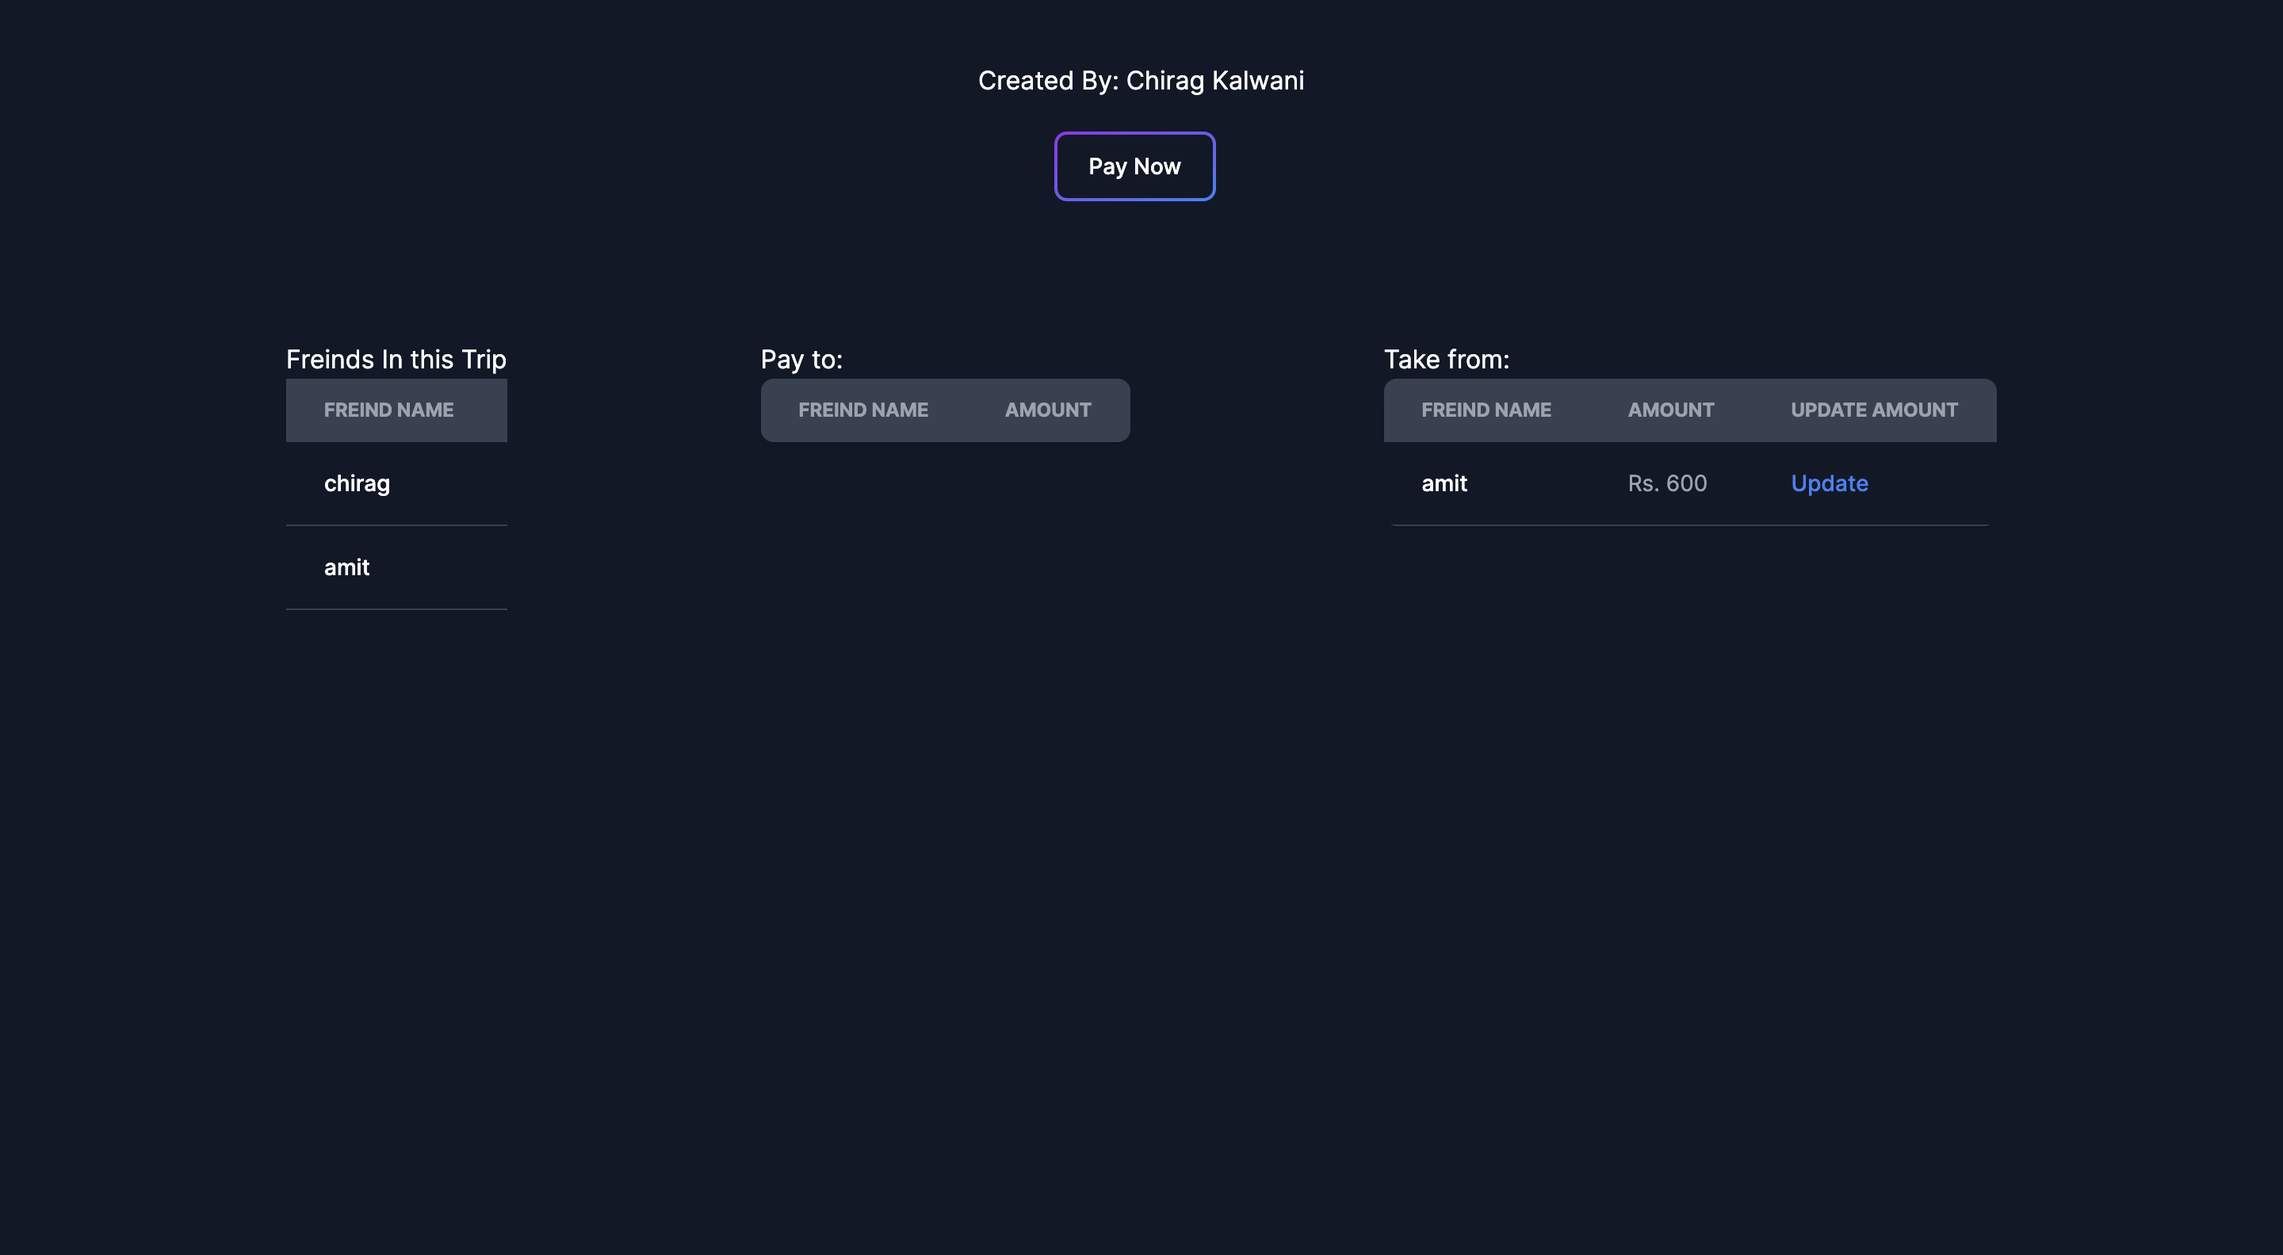
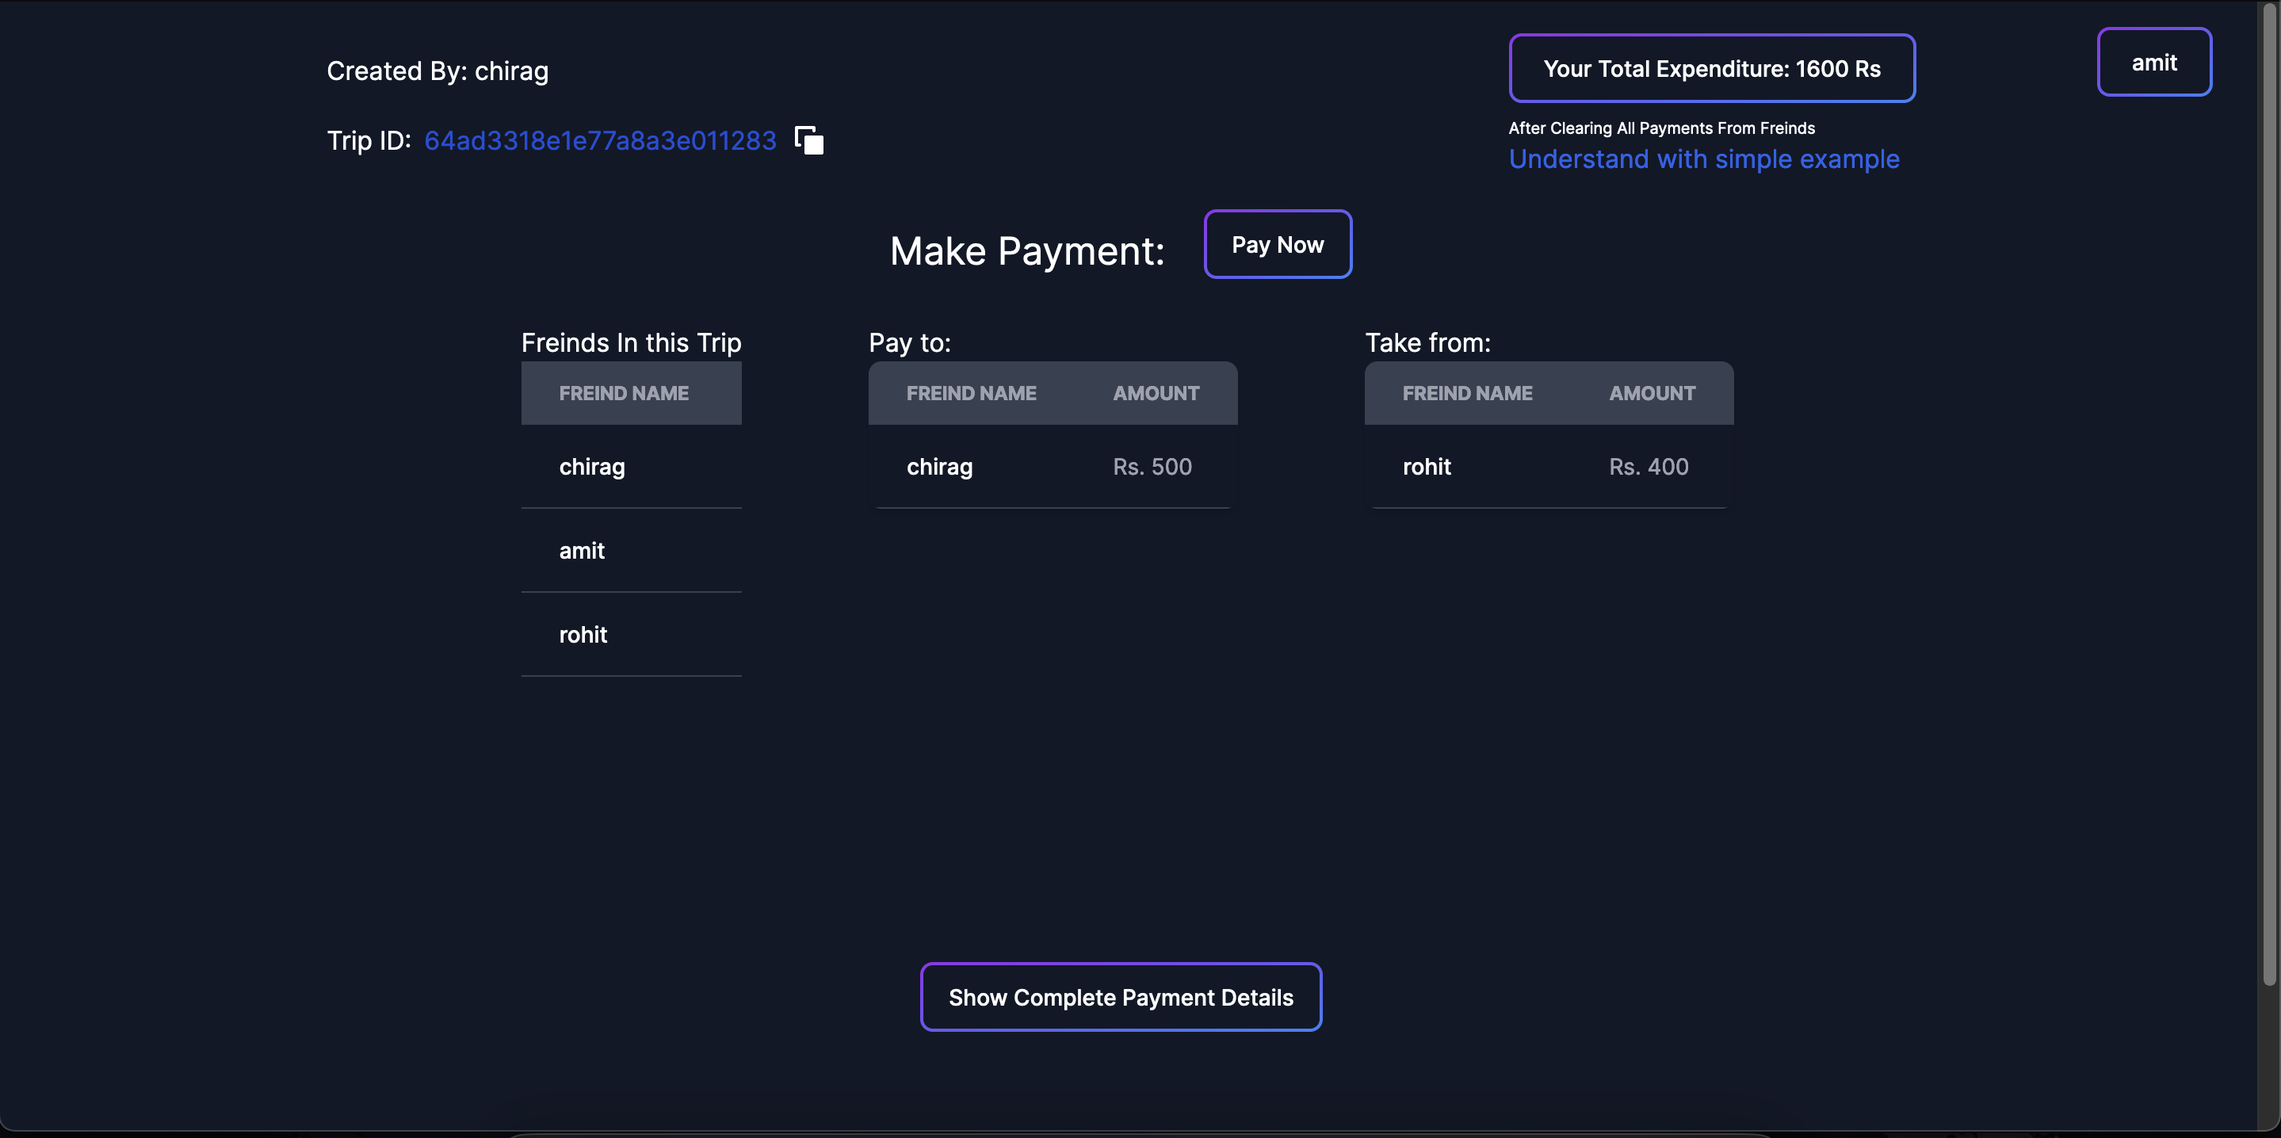
Date filter added

diff --git a/src/app/my_trip/[id]/page.tsx b/src/app/my_trip/[id]/page.tsx
@@ -7,6 +7,8 @@ import PayTo from "@/components/Trip/PayTo";
 import TakeFrom from "@/components/Trip/TakeFrom";
 import Helper from "@/components/Modals/Helper";
 import Link from "next/link";
+import {Tooltip} from "react-tooltip";
+import Spinner from "@/components/Spinners/Spinner";
 
 function MyTrip({params}: any) {
     // States parameters
@@ -24,11 +26,13 @@ function MyTrip({params}: any) {
     const [takeFrom, setTakeFrom] = useState<any[]>([]);
     // Get Current user expenditures
     const [currentUserExpenditures, setCurrentUserExpenditures] = useState<number>(0);
+    const [userName, setUserName] = useState("");
     // isLoading is the state which is used to show the spinner when data is being fetched
     const [userLoading, setUserLoading] = useState<boolean>(false);
     const [tableLoading, setTableLoading] = useState<boolean>(false);
     // loading current page from Pay modal
     const [load, setLoad] = useState(false);
+    const [changeCopy, setChangeCopy] = useState(false);
     // tripId is the id of the trip which user have clicked
     const tripId = params.id;
     // getPayTo is the function which is used to get all the users to whom user have to pay and from whom user have to take
@@ -41,7 +45,7 @@ function MyTrip({params}: any) {
             let res = await axios.post('/api/trip/paymentDetails', {tripId});
             // currUserId = res.data.userId,
             const pd = res.data.data, currUserName = res.data.userName;
-            localStorage.setItem("data", JSON.stringify(pd));
+            setUserName(currUserName);
             let arr2: any = {};
             for (let user of userDetails) {
                 arr2[user.userName] = {};
@@ -102,11 +106,62 @@ function MyTrip({params}: any) {
         getUsers().then();
     }, [load])
 
+
+    async function handlCopy() {
+        setChangeCopy(true);
+        try {
+            await navigator.clipboard.write([
+                new ClipboardItem({
+                    "text/plain": new Blob([tripId], {type: "text/plain"}),
+                }),
+            ]);
+            await setTimeout(() => {
+                setChangeCopy(false);
+            }, 500);
+        } catch (error) {
+            console.error("Failed to copy text to clipboard:", error);
+        }
+    }
+
     return (
         <div className="flex flex-col items-center justify-around">
+            <Link href="/"
+                  className="absolute top-2 right-5 inline-flex items-center justify-center mt-2 p-0.5 mb-2 mr-2 overflow-hidden text-sm font-medium text-gray-900 rounded-lg group bg-gradient-to-br from-purple-600 to-blue-500   dark:text-white">
+                {
+                    userName === "" ?
+                        <span
+                            className="relative px-5 py-2.5 transition-all ease-in duration-75 bg-white dark:bg-gray-900 rounded-md">
+                        <Spinner/>
+                        </span>
+                        :
+                        <span
+                            className="relative px-5 py-2.5 transition-all ease-in duration-75 bg-white dark:bg-gray-900 rounded-md">
+                              {userName}
+                          </span>
+                }
+            </Link>
             {/*Headings*/}
             <div className="flex w-[100vw] flex-wrap items-center justify-around">
-                <h3 className="mt-5">Created By: {owner.userName} </h3>
+                <div>
+                    <h3 className="mt-5">Created By: <span> {owner.userName} </span></h3>
+                    <div className="flex gap-2 flex-wrap justify-around mt-5">
+                        <span className=""> Trip ID: </span>
+                        <span className="text-blue-700"> {tripId} </span>
+                        <div data-tooltip-id="copy" data-tooltip-content={"Copy"}>
+                            {
+                                !changeCopy ?
+                                    <svg onClick={() => handlCopy()} className="w-6 invert cursor-pointer"
+                                         xmlns="http://www.w3.org/2000/svg" viewBox="0 0 24 24">
+                                        <path
+                                            d="M21 10v10a1 1 0 0 1-1 1H10a1 1 0 0 1-1-1V10a1 1 0 0 1 1-1h10a1 1 0 0 1 1 1zM6 14H5V5h9v1a1 1 0 0 0 2 0V4a1 1 0 0 0-1-1H4a1 1 0 0 0-1 1v11a1 1 0 0 0 1 1h2a1 1 0 0 0 0-2z"/>
+                                    </svg> :
+                                    <Spinner/>
+                            }
+                        </div>
+                        <Tooltip clickable place={"right"} style={{cursor: "pointer"}}
+                                 id="copy"/>
+                    </div>
+                </div>
                 <div className="flex flex-col">
                     <button disabled
                             className="relative inline-flex items-center justify-center mt-5 p-0.5 mb-2 mr-2 overflow-hidden text-sm font-medium text-gray-900 rounded-lg group bg-gradient-to-br from-purple-600 to-blue-500   dark:text-white">
@@ -121,7 +176,8 @@ function MyTrip({params}: any) {
                 </div>
             </div>
             {/* The Button Clicked open the pay modal */}
-            {!helper &&
+            {
+                !helper &&
                 <div className="flex items-center gap-6">
                     <h1 className="mt-5 text-2xl">Make Payment: </h1>
                     <button onClick={() => setPay(prev => !prev)}
@@ -136,12 +192,12 @@ function MyTrip({params}: any) {
             {/*Either pay modal remains open or dahboard */}
             {
                 helper ? <Helper closeFunction={setHelper} msg={"totalExpenditureFeature"}/> :
-                    <>
+                    <div className="mt-5">
                         {pay ?
                             <div><Pay loadUpperPage={setLoad} tripId={tripId} members={members}
                                       handleClose={setPay}/>
                             </div> :
-                            <div className="flex flex-row flex-wrap">
+                            <div className="flex flex-row gap-20 justify-center flex-wrap">
                                 {/*/!*Members in The trip shown in by the following component*!/*/}
                                 <FreindsList loading={userLoading} members={members}/>
                                 {/*/!* Current user pending payments *!/*/}
@@ -149,15 +205,15 @@ function MyTrip({params}: any) {
                                 <TakeFrom loading={tableLoading} takeFrom={takeFrom}/>
                             </div>
                         }
-                    </>
+                    </div>
             }
-
+            {/*Redirect to complete Information about payments*/}
             {
                 !helper && !pay &&
-                <div className="flex items-center gap-6">
+                <div className="flex items-center gap-6 h-96">
                     <Link href={`/table/${tripId}`} target="_blank"
                           passHref
-                          className="relative inline-flex items-center justify-center mt-5 p-0.5 mb-2 mr-2 overflow-hidden text-sm font-medium text-gray-900 rounded-lg group bg-gradient-to-br from-purple-600 to-blue-500 group-hover:from-purple-600 group-hover:to-blue-500 hover:text-white dark:text-white focus:ring-4 focus:outline-none focus:ring-blue-300 dark:focus:ring-blue-800">
+                          className="relative inline-flex justify-center mt-5 p-0.5 mr-2 overflow-hidden text-sm font-medium text-gray-900 rounded-lg group bg-gradient-to-br from-purple-600 to-blue-500 group-hover:from-purple-600 group-hover:to-blue-500 hover:text-white dark:text-white focus:ring-4 focus:outline-none focus:ring-blue-300 dark:focus:ring-blue-800">
                         <span
                             className="relative px-4 py-2.5 transition-all ease-in duration-75 bg-white dark:bg-gray-900 rounded-md group-hover:bg-opacity-0">
                             Show Complete Payment Details

diff --git a/src/app/table/[id]/page.tsx b/src/app/table/[id]/page.tsx
@@ -3,19 +3,35 @@ import React, {useEffect, useState} from 'react';
 import TableComp from "@/components/TableComp/TableComp";
 import axios from "axios";
 import Spinner from "@/components/Spinners/Spinner";
-
+import Link from "next/link";
+import Datepicker from "react-tailwindcss-datepicker";
 
 function Table({params}: any) {
     const [data, setData] = useState([]);
     const [isLoading, setIsLoading] = useState(false);
-
+    const [userName, setUserName] = useState("");
+    const [value, setValue] = useState({
+        startDate: new Date('1990-01-01'),
+        endDate: new Date()
+    });
     const tripId = params.id;
 
+
+    const handleValueChange = (newValue: any) => {
+        let startDate = new Date(newValue.startDate);
+        let endDate = new Date(newValue.endDate);
+        setValue({startDate, endDate});
+    }
     useEffect(() => {
         async function getUsers() {
             try {
                 setIsLoading(true);
                 let res = await axios.post('/api/trip/paymentDetails', {tripId});
+                setUserName(res.data.userName);
+                res.data.data.sort(function (a: any, b: any) {
+                    // @ts-ignore
+                    return new Date(b.createdAt) - new Date(a.createdAt);
+                });
                 setData(res.data.data);
             } catch (e: any) {
                 console.error("Error While Fetching users from table: ", e);
@@ -27,14 +43,40 @@ function Table({params}: any) {
         getUsers().then();
     }, [])
 
-
     return (
-        <div className="">
+        <div>
+            <div className="flex items-center flex-wrap justify-between">
+                <div className="w-96 p-10">
+                    {/*@ts-ignore*/}
+                    <Datepicker value={value} onChange={handleValueChange}/>
+                </div>
+                <Link href="/"
+                      className="inline-flex items-center justify-center mt-2 p-0.5 mb-2 mr-10 overflow-hidden text-sm font-medium text-gray-900 rounded-lg group bg-gradient-to-br from-purple-600 to-blue-500   dark:text-white">
+                    {
+                        userName === "" ?
+                            <span
+                                className="relative px-5 py-2.5 transition-all ease-in duration-75 bg-white dark:bg-gray-900 rounded-md">
+                        <Spinner/>
+                        </span>
+                            :
+                            <span
+                                className="relative px-5 py-2.5 transition-all ease-in duration-75 bg-white dark:bg-gray-900 rounded-md">
+                              {userName}
+                          </span>
+                    }
+                </Link>
+            </div>
             {
                 isLoading ? <Spinner/> :
-                    data.map((d: any, i) => (
-                        <TableComp key={i} d={d}/>
-                    ))
+                    <div className="mt-10">
+                        {
+                            data.map((d: any, i) => {
+                                if (new Date(d.createdAt) >= value.startDate && new Date(d.createdAt) <= value.endDate)
+                                    return <TableComp key={i} d={d}/>
+                                else return <></>
+                            })
+                        }
+                    </div>
             }
         </div>
     );

diff --git a/src/app/create_trip/[userName]/page.tsx b/src/app/create_trip/[userName]/page.tsx
@@ -1,11 +1,12 @@
 "use client"
-import {useState} from 'react';
+import React, {useState} from 'react';
 import Input from "@/components/Inputs/Input";
 import Spinner from "@/components/Spinners/Spinner";
 import axios from "axios";
 import Alert from "@/components/Alert/Alert";
+import Link from "next/link";
 
-function CreateTrip() {
+function CreateTrip({params}: any) {
     // tripId is the id of the trip which user have Created and he is owner of this trip
     const [tripId, setTripId] = useState<string>("");
     // loading is the state which is used to show the loading spinner
@@ -13,6 +14,7 @@ function CreateTrip() {
     // err is the state which is used to show the error alert
     const [err, setErr] = useState<any>({is: false, msg: ""});
 
+    const userName = params.userName;
     // handleSubmit is the function which is used to create the trip
     // It also set the tripId state, User use this tripId to add other freinds.
     async function handleSubmit(e: any) {
@@ -39,6 +41,13 @@ function CreateTrip() {
 
     return (
         <div>
+            <Link href="/"
+                  className="absolute top-2 right-5 inline-flex items-center justify-center mt-5 p-0.5 mb-2 mr-2 overflow-hidden text-sm font-medium text-gray-900 rounded-lg group bg-gradient-to-br from-purple-600 to-blue-500   dark:text-white">
+                          <span
+                              className="relative px-5 py-2.5 transition-all ease-in duration-75 bg-white dark:bg-gray-900 rounded-md">
+                              {userName}
+                          </span>
+            </Link>
             <div className="mt-28 w-full flex flex-wrap justify-center items-center">
                 <form className="w-96 p-5">
                     <div className="mt-4">

diff --git a/src/components/MainPage/MainPage.tsx b/src/components/MainPage/MainPage.tsx
@@ -136,7 +136,7 @@ function MainPage({email, userName, name, loadUpperPage, isEmailVerified}: any) 
             <div
                 className="container bg-gray-800 max-w-lg rounded dark:bg-gray-800 shadow-lg transform duration-200 easy-in-out m-12">
                 <div className="flex justify-center">
-                    <Link type="button" href="/create_trip" target="_blank"
+                    <Link type="button" href={`/create_trip/${userName}`} target="_blank"
                           className="text-white bg-blue-700 hover:bg-blue-800 m-5 focus:ring-4 focus:outline-none focus:ring-blue-300 font-medium rounded-lg text-sm px-5 py-2.5 text-center inline-flex items-center dark:bg-blue-600 dark:hover:bg-blue-700 dark:focus:ring-blue-800">
                         Create New Trip
                         <svg className="w-3.5 h-3.5 ml-2" aria-hidden="true" xmlns="http://www.w3.org/2000/svg"
@@ -166,7 +166,7 @@ function MainPage({email, userName, name, loadUpperPage, isEmailVerified}: any) 
                                 key={i}>
                                 <div className="flex items-center space-x-4">
                                     <div className="flex-1 min-w-0">
-                                        <p className="text-3xl text-center font-semibold text-blue-600/100 dark:text-blue-500/100 select-none hover:!text-blue-700">
+                                        <p className="text-3xl text-center font-semibold text-blue-600/100 dark:text-blue-500/100 hover:!text-blue-700">
                                             {trip.tripName}
                                         </p>
                                     </div>

diff --git a/tailwind.config.js b/tailwind.config.js
@@ -4,7 +4,8 @@ module.exports = {
         "./app/**/*.{js,ts,jsx,tsx,mdx}",
         "./pages/**/*.{js,ts,jsx,tsx,mdx}",
         "./components/**/*.{js,ts,jsx,tsx,mdx}",
-
+        "./src/**/*.{js,jsx,ts,tsx}",
+        "./node_modules/react-tailwindcss-datepicker/dist/index.esm.js",
         // Or if using `src` directory:
         "./src/**/*.{js,ts,jsx,tsx,mdx}",
     ],

diff --git a/src/components/Modals/Pay.tsx b/src/components/Modals/Pay.tsx
@@ -37,7 +37,7 @@ function Pay({members, handleClose, tripId, loadUpperPage}: any) {
         e.preventDefault();
         let price = e.target.form[0].value;
         if (!checkNumber(price)) return false;
-        if (price === "") {
+        if (price === "" || price == 0) {
             setErr({is: true, msg: "Price is required"});
             return false;
         }

diff --git a/src/components/Trip/FreindsList.tsx b/src/components/Trip/FreindsList.tsx
@@ -3,7 +3,7 @@ import Spinner from "@/components/Spinners/Spinner";
 
 function FreindsList({members, loading}: any) {
     return (
-        <div className="m-20">
+        <div className="">
             <h1>Freinds In this Trip</h1>
             {loading && <div className="my-3">
                 <Spinner/>

diff --git a/src/components/Trip/TakeFrom.tsx b/src/components/Trip/TakeFrom.tsx
@@ -3,7 +3,7 @@ import Spinner from "@/components/Spinners/Spinner";
 
 function TakeFrom({takeFrom, loading}: any) {
     return (
-        <div className="m-20">
+        <div className="">
             <h1>Take from: </h1>
             {loading && <div className="my-3">
                 <Spinner/>

diff --git a/src/components/Trip/PayTo.tsx b/src/components/Trip/PayTo.tsx
@@ -6,7 +6,7 @@ import Spinner from "@/components/Spinners/Spinner";
 function PayTo({payTo, loading}: any) {
 
     return (
-        <div className="m-20">
+        <div className="mb-10">
             <h1> Pay to: </h1>
             {loading && <div className="my-3">
                 <Spinner/>

diff --git a/src/components/TableComp/TableComp.tsx b/src/components/TableComp/TableComp.tsx
@@ -78,7 +78,6 @@ function TableComp({d}: any) {
                                     </tr>
                                 ))
                             }
-
                             </tbody>
                         </table>
                     </>

diff --git a/src/middleware.ts b/src/middleware.ts
@@ -22,5 +22,7 @@ export const config = {
         '/',
         '/signup',
         '/login',
+        '/create_trip/:path*',
+        '/my_trip/:path*'
     ],
 }

diff --git a/src/app/globals.css b/src/app/globals.css
@@ -6,4 +6,5 @@
 body {
     background-color: rgb(17 24 39);
     color: white;
+    overflow-x: hidden; /* Hide vertical scrollbar */
 }
